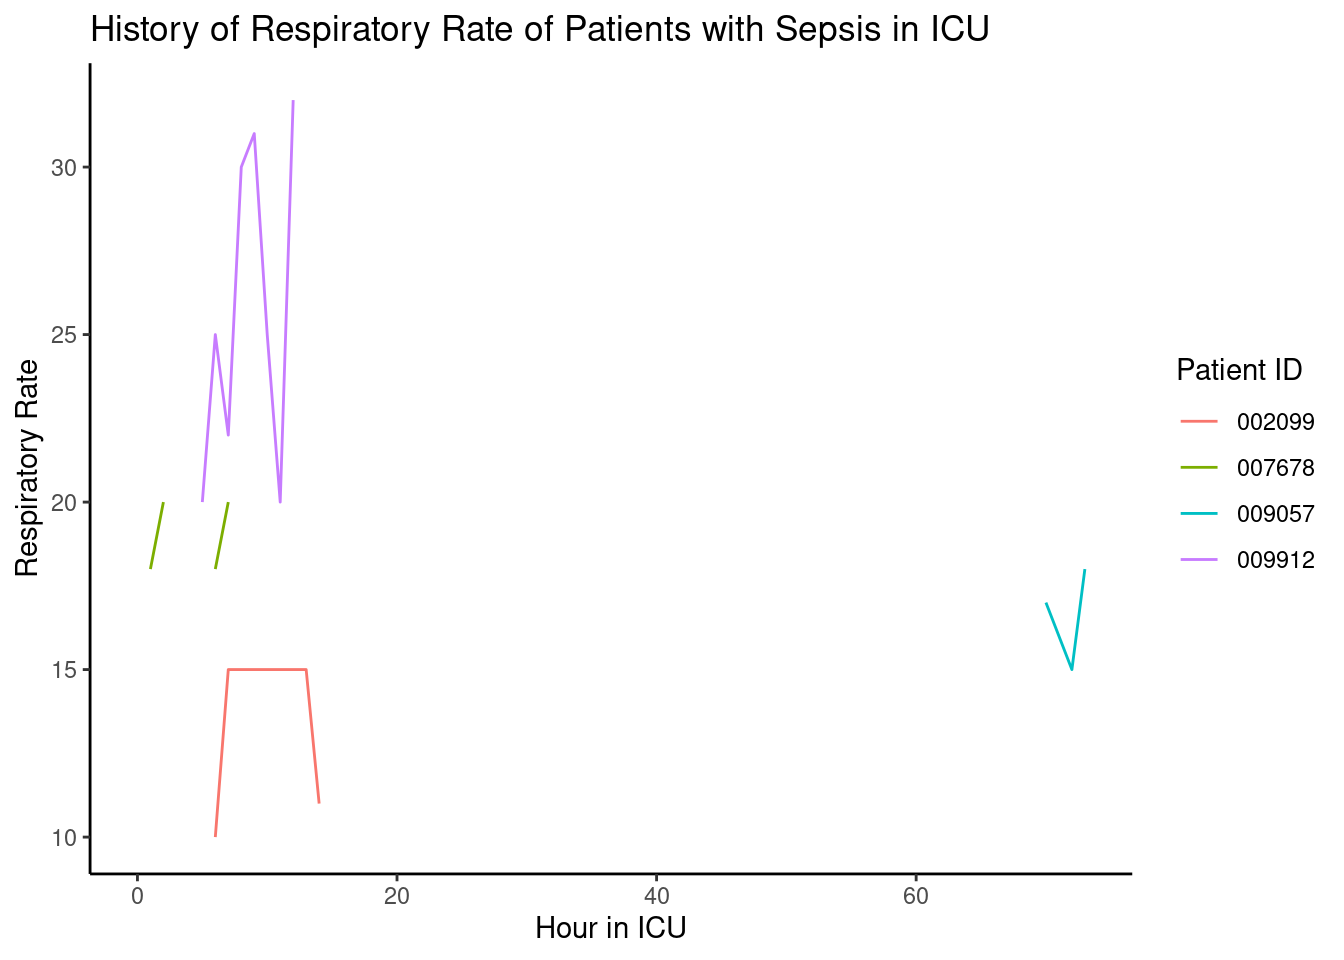
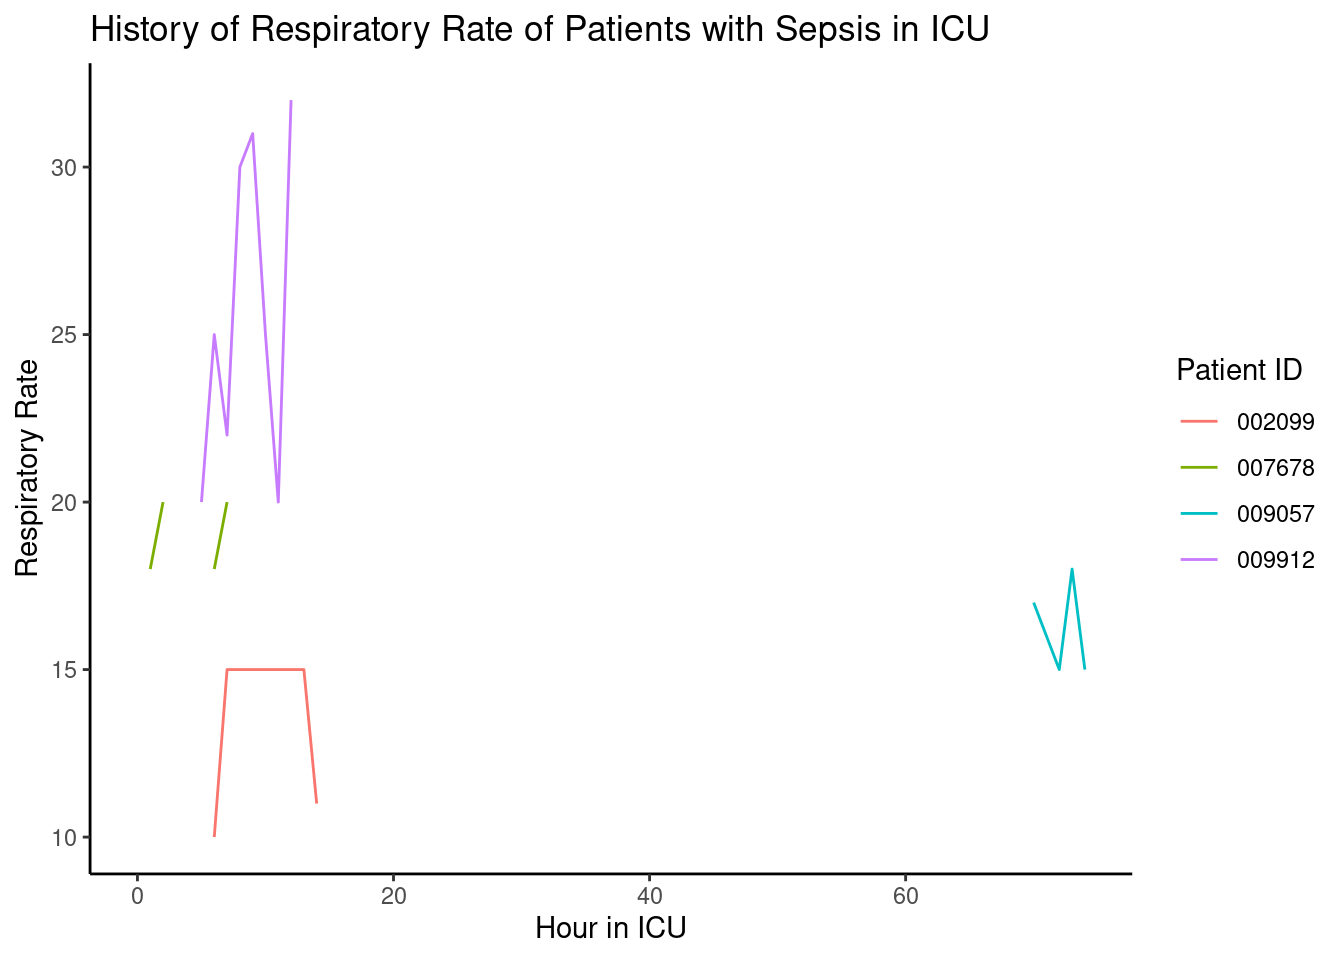
Updated report

diff --git a/HW7.html b/HW7.html
@@ -72,7 +72,7 @@ ul.task-list li input[type="checkbox"] {
 
 <div class="cell">
 <div class="cell-output cell-output-stdout">
-<pre><code>This report was updated at 2023-04-09 14:15:39 CDT</code></pre>
+<pre><code>This report was updated at 2023-04-09 15:18:28 CDT</code></pre>
 </div>
 </div>
 <div class="cell">
@@ -103,9 +103,9 @@ ul.task-list li input[type="checkbox"] {
   </tr>
   <tr>
    <td style="text-align:left;"> 009057 </td>
-   <td style="text-align:right;"> 86 </td>
-   <td style="text-align:right;"> 37.28 </td>
-   <td style="text-align:right;"> 18 </td>
+   <td style="text-align:right;"> 92 </td>
+   <td style="text-align:right;"> NA </td>
+   <td style="text-align:right;"> 15 </td>
   </tr>
   <tr>
    <td style="text-align:left;"> 009912 </td>
@@ -169,9 +169,9 @@ ul.task-list li input[type="checkbox"] {
   </tr>
   <tr>
    <td style="text-align:left;font-weight: bold;color: black !important;background-color: lightgrey !important;border-right:1px solid;"> 000795 </td>
-   <td style="text-align:right;"> 0 </td>
+   <td style="text-align:right;"> 1 </td>
    <td style="text-align:right;"> NA </td>
-   <td style="text-align:right;"> 0 </td>
+   <td style="text-align:right;"> -1 </td>
   </tr>
   <tr>
    <td style="text-align:left;font-weight: bold;color: black !important;background-color: lightgrey !important;border-right:1px solid;"> 001135 </td>
@@ -415,9 +415,9 @@ ul.task-list li input[type="checkbox"] {
   </tr>
   <tr>
    <td style="text-align:left;font-weight: bold;color: black !important;background-color: lightgrey !important;border-right:1px solid;"> 009057 </td>
-   <td style="text-align:right;"> 2 </td>
+   <td style="text-align:right;"> 6 </td>
    <td style="text-align:right;"> NA </td>
-   <td style="text-align:right;"> 3 </td>
+   <td style="text-align:right;"> -3 </td>
   </tr>
   <tr>
    <td style="text-align:left;font-weight: bold;color: black !important;background-color: lightgrey !important;border-right:1px solid;"> 009141 </td>
